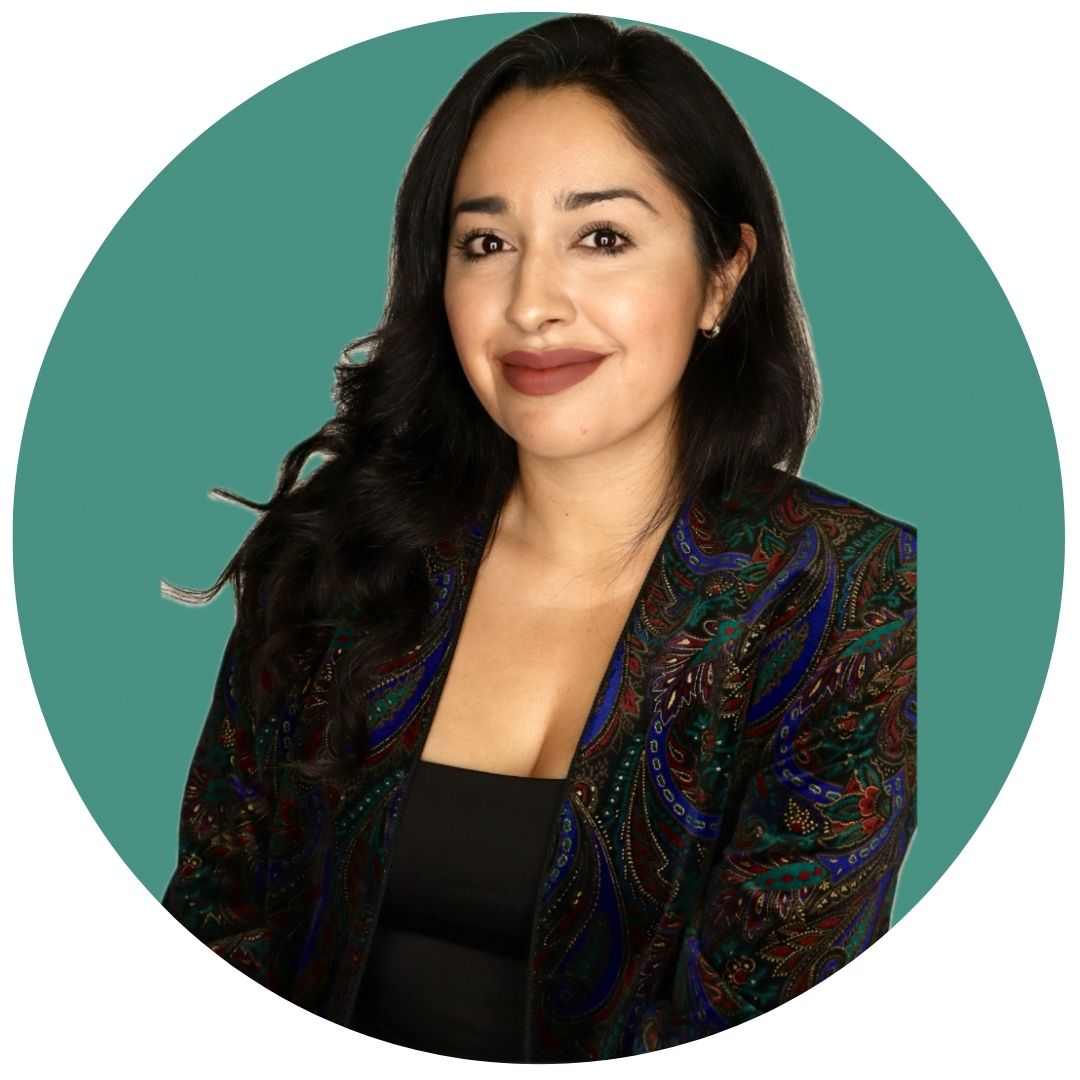
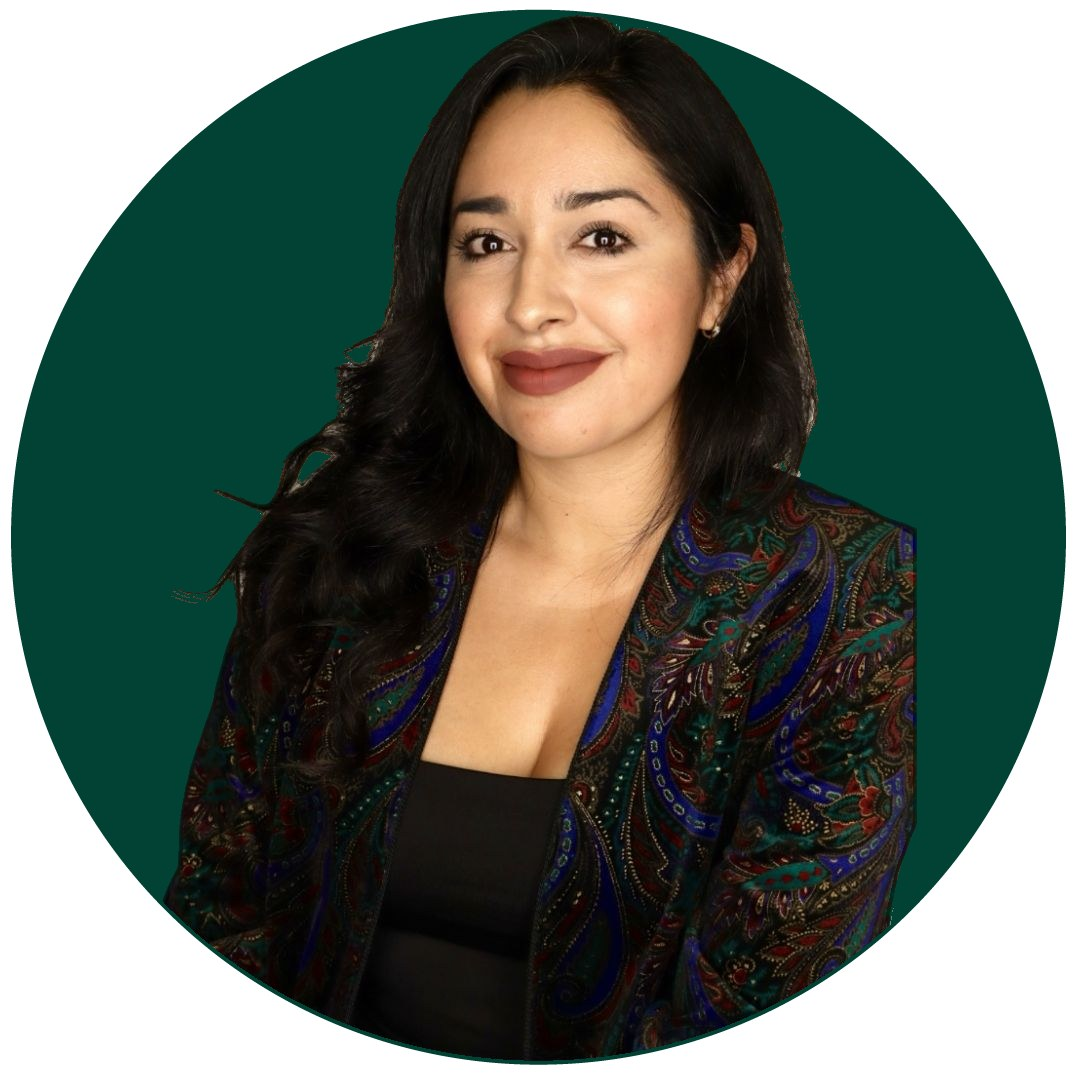
Give the hero portrait a transparent circle in the brand green
The white square around the portrait's backdrop circle showed on the page,
and the circle's teal (#489082) did not match the deep green the quote band,
the buttons and the nav all use (#014235). Both were baked into the pixels of
headshot.jpg rather than set in CSS, so this is mostly an image change.

headshot.webp is the portrait recoloured, with everything outside the circle
transparent. It replaces the JPEG on the page in both homepage layouts, which
share this asset, and comes in smaller than the file it replaces (95KB against
113KB). headshot.jpg stays as the og:image: social clients composite it
against backgrounds we do not control, so it keeps the white square.

The variant's portrait box was cropping the artwork. It carried
aspect-ratio 4/4.6 with object-fit:cover, which sliced the sides off a circle,
so it is square now and drops the border-radius and object-fit with it — the
shape belongs to the image. The offset sand rectangle behind the portrait goes
too: behind a circle with transparent corners it read as a stray shape poking
out from underneath rather than as a frame.

tools/recolor_headshot.py is how the asset was produced, kept so the colour
can be changed again. It also has to undo a flaw in the source, which was
itself cut out and laid onto the teal with a light matte: her loose hair
carried a pale fringe up to 40px wide and backdrop showed through two gaps in
it. Against the old teal that was nearly invisible; against a backdrop this
[…]

diff --git a/assets/css/fresh-take.css b/assets/css/fresh-take.css
@@ -109,16 +109,13 @@ html[data-home-design="fresh_take"] body{
 .ft .hero h1 em{font-style:italic;color:var(--ft-green)}
 .ft .hero .cta{display:flex;gap:26px;align-items:center;flex-wrap:wrap;margin-top:32px}
 .ft .pt{position:relative}
-.ft .pt .block{position:absolute;inset:26px -22px -22px 26px;background:var(--ft-sand);border-radius:var(--ft-r)}
-/* height:auto matters. The markup carries width="650" height="748" so the
-   browser can reserve the space, but that height is a definite value, and
-   aspect-ratio only applies when one dimension is auto — so without this the
-   attribute won and the portrait rendered 748px tall instead of the 543.8px
-   the ratio asks for, overwhelming the hero. */
-.ft .pt img{
-  position:relative;width:100%;height:auto;aspect-ratio:4/4.6;object-fit:cover;
-  object-position:center 18%;border-radius:var(--ft-r)
-}
+/* The portrait is a circle on transparent corners, baked into the image, so
+   this box has to stay square: the 4/4.6 crop this rule used to carry sliced
+   the sides off the circle. No border-radius or object-fit either — the shape
+   is the artwork's, not the box's. height:auto still matters, so that the
+   width/height attributes reserve the right space without pinning the
+   rendered height to 1080px. */
+.ft .pt img{position:relative;width:100%;height:auto;aspect-ratio:1}
 
 .ft .band{background:var(--ft-green);color:#fff;padding:74px 0}
 .ft .band .q{
@@ -264,7 +261,6 @@ html[data-home-design="fresh_take"] body{
   .ft .memo-grid,
   .ft .connect-grid{grid-template-columns:1fr;gap:38px}
   .ft .pt{order:-1;max-width:400px}
-  .ft .pt .block{inset:20px -14px -14px 20px}
   .ft .plogos{grid-template-columns:repeat(2,1fr)}
   .ft section.pad{padding-block:60px}
   .ft .hero{padding-block:48px 60px}
@@ -378,9 +374,10 @@ html[data-home-design="fresh_take"] .pcard h2:first-child{margin-top:26px}
    so each rule has to out-specify its site.css counterpart — which the
    html[data-home-design="fresh_take"] prefix does on its own.
 
-   The look follows the homepage: Fraunces for headings, cream ground, the
-   sand offset block behind the cover image that the hero portrait uses, and
-   green for anything interactive. */
+   The look follows the homepage: Fraunces for headings, cream ground, a sand
+   offset block behind the cover image, and green for anything interactive.
+   (The hero portrait used to carry that same offset block; it does not any
+   more, now that its backdrop is a circle.) */
 
 html[data-home-design="fresh_take"]{
   --ft-post-line:rgba(1,66,53,.14);

diff --git a/index.html b/index.html
@@ -18,7 +18,7 @@
 <link href="https://fonts.googleapis.com/css2?family=Mr+De+Haviland&family=Mulish:wght@200..800&family=Lato:wght@300;400&display=swap" rel="stylesheet">
 <link rel="stylesheet" href="assets/css/site.css?v=c31d387e">
 <link href="https://fonts.googleapis.com/css2?family=Fraunces:ital,opsz,wght@0,9..144,300..700;1,9..144,300..600&display=swap" rel="stylesheet">
-<link rel="stylesheet" href="assets/css/fresh-take.css?v=d0b85ae1">
+<link rel="stylesheet" href="assets/css/fresh-take.css?v=d4e873a1">
 <link rel="alternate" type="application/rss+xml" title="AQ Career Consulting — POV Blog" href="feed.xml">
 <noscript><style>html.exp-pending body{visibility:visible!important}</style></noscript>
 <script>
@@ -127,7 +127,7 @@
         </form>
         <a class="btn-solid" href="#services" data-cta="hero">Learn how I can support you</a>
       </div>
-      <div class="portrait"><img src="assets/img/headshot.jpg" alt="Alina Quintana" width="650" height="650"></div>
+      <div class="portrait"><img src="assets/img/headshot.webp" alt="Alina Quintana" width="1080" height="1080"></div>
     </div>
   </section>
 
@@ -318,9 +318,12 @@
           <a class="btn-text" href="#ft-connect" data-cta="primary">Book a conversation</a>
         </div>
       </div>
+      <!-- The portrait's backdrop circle is part of the image and its corners
+           are transparent, so the offset sand rectangle that used to sit
+           behind this photo is gone: against a circle it read as a stray
+           shape poking out rather than as a frame. -->
       <div class="pt">
-        <div class="block"></div>
-        <img src="assets/img/headshot.jpg" alt="Alina Quintana, National Certified Counselor and Certified Career Counselor" width="650" height="748">
+        <img src="assets/img/headshot.webp" alt="Alina Quintana, National Certified Counselor and Certified Career Counselor" width="1080" height="1080">
       </div>
     </div>
   </section>

diff --git a/templates/home-fresh-take.html b/templates/home-fresh-take.html
@@ -21,9 +21,12 @@
           <a class="btn-text" href="{{base}}#ft-connect" data-cta="primary">Book a conversation</a>
         </div>
       </div>
+      <!-- The portrait's backdrop circle is part of the image and its corners
+           are transparent, so the offset sand rectangle that used to sit
+           behind this photo is gone: against a circle it read as a stray
+           shape poking out rather than as a frame. -->
       <div class="pt">
-        <div class="block"></div>
-        <img src="{{base}}assets/img/headshot.jpg" alt="Alina Quintana, National Certified Counselor and Certified Career Counselor" width="650" height="748">
+        <img src="{{base}}assets/img/headshot.webp" alt="Alina Quintana, National Certified Counselor and Certified Career Counselor" width="1080" height="1080">
       </div>
     </div>
   </section>

diff --git a/post/10-tips-for-career-alignment-as-a-nbcc-fellow/index.html b/post/10-tips-for-career-alignment-as-a-nbcc-fellow/index.html
@@ -18,7 +18,7 @@
 <link href="https://fonts.googleapis.com/css2?family=Mr+De+Haviland&family=Mulish:wght@200..800&family=Lato:wght@300;400&display=swap" rel="stylesheet">
 <link rel="stylesheet" href="../../assets/css/site.css?v=c31d387e">
 <link href="https://fonts.googleapis.com/css2?family=Fraunces:ital,opsz,wght@0,9..144,300..700;1,9..144,300..600&display=swap" rel="stylesheet">
-<link rel="stylesheet" href="../../assets/css/fresh-take.css?v=d0b85ae1">
+<link rel="stylesheet" href="../../assets/css/fresh-take.css?v=d4e873a1">
 <link rel="alternate" type="application/rss+xml" title="AQ Career Consulting — POV Blog" href="../../feed.xml">
 <noscript><style>html.exp-pending body{visibility:visible!important}</style></noscript>
 <script>

diff --git a/post/a-million-miles-away-2023-a-cinematic-journey-of-inspiration-for-career-development/index.html b/post/a-million-miles-away-2023-a-cinematic-journey-of-inspiration-for-career-development/index.html
@@ -18,7 +18,7 @@
 <link href="https://fonts.googleapis.com/css2?family=Mr+De+Haviland&family=Mulish:wght@200..800&family=Lato:wght@300;400&display=swap" rel="stylesheet">
 <link rel="stylesheet" href="../../assets/css/site.css?v=c31d387e">
 <link href="https://fonts.googleapis.com/css2?family=Fraunces:ital,opsz,wght@0,9..144,300..700;1,9..144,300..600&display=swap" rel="stylesheet">
-<link rel="stylesheet" href="../../assets/css/fresh-take.css?v=d0b85ae1">
+<link rel="stylesheet" href="../../assets/css/fresh-take.css?v=d4e873a1">
 <link rel="alternate" type="application/rss+xml" title="AQ Career Consulting — POV Blog" href="../../feed.xml">
 <noscript><style>html.exp-pending body{visibility:visible!important}</style></noscript>
 <script>

diff --git a/post/chicano-frankenstein-a-riveting-sci-fi-novel-of-love-family-and-politics/index.html b/post/chicano-frankenstein-a-riveting-sci-fi-novel-of-love-family-and-politics/index.html
@@ -18,7 +18,7 @@
 <link href="https://fonts.googleapis.com/css2?family=Mr+De+Haviland&family=Mulish:wght@200..800&family=Lato:wght@300;400&display=swap" rel="stylesheet">
 <link rel="stylesheet" href="../../assets/css/site.css?v=c31d387e">
 <link href="https://fonts.googleapis.com/css2?family=Fraunces:ital,opsz,wght@0,9..144,300..700;1,9..144,300..600&display=swap" rel="stylesheet">
-<link rel="stylesheet" href="../../assets/css/fresh-take.css?v=d0b85ae1">
+<link rel="stylesheet" href="../../assets/css/fresh-take.css?v=d4e873a1">
 <link rel="alternate" type="application/rss+xml" title="AQ Career Consulting — POV Blog" href="../../feed.xml">
 <noscript><style>html.exp-pending body{visibility:visible!important}</style></noscript>
 <script>

diff --git a/post/mental-health-in-the-digital-age-betterhelp-s-ethical-breach-and-what-it-means-for-us/index.html b/post/mental-health-in-the-digital-age-betterhelp-s-ethical-breach-and-what-it-means-for-us/index.html
@@ -18,7 +18,7 @@
 <link href="https://fonts.googleapis.com/css2?family=Mr+De+Haviland&family=Mulish:wght@200..800&family=Lato:wght@300;400&display=swap" rel="stylesheet">
 <link rel="stylesheet" href="../../assets/css/site.css?v=c31d387e">
 <link href="https://fonts.googleapis.com/css2?family=Fraunces:ital,opsz,wght@0,9..144,300..700;1,9..144,300..600&display=swap" rel="stylesheet">
-<link rel="stylesheet" href="../../assets/css/fresh-take.css?v=d0b85ae1">
+<link rel="stylesheet" href="../../assets/css/fresh-take.css?v=d4e873a1">
 <link rel="alternate" type="application/rss+xml" title="AQ Career Consulting — POV Blog" href="../../feed.xml">
 <noscript><style>html.exp-pending body{visibility:visible!important}</style></noscript>
 <script>

diff --git a/post/the-art-of-calculated-risk-guiding-clients-towards-confidence-and-success/index.html b/post/the-art-of-calculated-risk-guiding-clients-towards-confidence-and-success/index.html
@@ -18,7 +18,7 @@
 <link href="https://fonts.googleapis.com/css2?family=Mr+De+Haviland&family=Mulish:wght@200..800&family=Lato:wght@300;400&display=swap" rel="stylesheet">
 <link rel="stylesheet" href="../../assets/css/site.css?v=c31d387e">
 <link href="https://fonts.googleapis.com/css2?family=Fraunces:ital,opsz,wght@0,9..144,300..700;1,9..144,300..600&display=swap" rel="stylesheet">
-<link rel="stylesheet" href="../../assets/css/fresh-take.css?v=d0b85ae1">
+<link rel="stylesheet" href="../../assets/css/fresh-take.css?v=d4e873a1">
 <link rel="alternate" type="application/rss+xml" title="AQ Career Consulting — POV Blog" href="../../feed.xml">
 <noscript><style>html.exp-pending body{visibility:visible!important}</style></noscript>
 <script>

diff --git a/post/the-career-questions-we-were-afraid-to-ask-out-loud-so-we-asked-google/index.html b/post/the-career-questions-we-were-afraid-to-ask-out-loud-so-we-asked-google/index.html
@@ -18,7 +18,7 @@
 <link href="https://fonts.googleapis.com/css2?family=Mr+De+Haviland&family=Mulish:wght@200..800&family=Lato:wght@300;400&display=swap" rel="stylesheet">
 <link rel="stylesheet" href="../../assets/css/site.css?v=c31d387e">
 <link href="https://fonts.googleapis.com/css2?family=Fraunces:ital,opsz,wght@0,9..144,300..700;1,9..144,300..600&display=swap" rel="stylesheet">
-<link rel="stylesheet" href="../../assets/css/fresh-take.css?v=d0b85ae1">
+<link rel="stylesheet" href="../../assets/css/fresh-take.css?v=d4e873a1">
 <link rel="alternate" type="application/rss+xml" title="AQ Career Consulting — POV Blog" href="../../feed.xml">
 <noscript><style>html.exp-pending body{visibility:visible!important}</style></noscript>
 <script>

diff --git a/post/the-challenge-of-raising-a-girl-with-dreams-bigger-than-mine/index.html b/post/the-challenge-of-raising-a-girl-with-dreams-bigger-than-mine/index.html
@@ -18,7 +18,7 @@
 <link href="https://fonts.googleapis.com/css2?family=Mr+De+Haviland&family=Mulish:wght@200..800&family=Lato:wght@300;400&display=swap" rel="stylesheet">
 <link rel="stylesheet" href="../../assets/css/site.css?v=c31d387e">
 <link href="https://fonts.googleapis.com/css2?family=Fraunces:ital,opsz,wght@0,9..144,300..700;1,9..144,300..600&display=swap" rel="stylesheet">
-<link rel="stylesheet" href="../../assets/css/fresh-take.css?v=d0b85ae1">
+<link rel="stylesheet" href="../../assets/css/fresh-take.css?v=d4e873a1">
 <link rel="alternate" type="application/rss+xml" title="AQ Career Consulting — POV Blog" href="../../feed.xml">
 <noscript><style>html.exp-pending body{visibility:visible!important}</style></noscript>
 <script>

diff --git a/post/the-changing-landscape-of-work-a-career-counselor-explores-the-careers-are-dying-trend-on-tiktok/index.html b/post/the-changing-landscape-of-work-a-career-counselor-explores-the-careers-are-dying-trend-on-tiktok/index.html
@@ -18,7 +18,7 @@
 <link href="https://fonts.googleapis.com/css2?family=Mr+De+Haviland&family=Mulish:wght@200..800&family=Lato:wght@300;400&display=swap" rel="stylesheet">
 <link rel="stylesheet" href="../../assets/css/site.css?v=c31d387e">
 <link href="https://fonts.googleapis.com/css2?family=Fraunces:ital,opsz,wght@0,9..144,300..700;1,9..144,300..600&display=swap" rel="stylesheet">
-<link rel="stylesheet" href="../../assets/css/fresh-take.css?v=d0b85ae1">
+<link rel="stylesheet" href="../../assets/css/fresh-take.css?v=d4e873a1">
 <link rel="alternate" type="application/rss+xml" title="AQ Career Consulting — POV Blog" href="../../feed.xml">
 <noscript><style>html.exp-pending body{visibility:visible!important}</style></noscript>
 <script>

diff --git a/post/three-years-as-a-certified-counselor-my-thoughts-and-what-s-next/index.html b/post/three-years-as-a-certified-counselor-my-thoughts-and-what-s-next/index.html
@@ -18,7 +18,7 @@
 <link href="https://fonts.googleapis.com/css2?family=Mr+De+Haviland&family=Mulish:wght@200..800&family=Lato:wght@300;400&display=swap" rel="stylesheet">
 <link rel="stylesheet" href="../../assets/css/site.css?v=c31d387e">
 <link href="https://fonts.googleapis.com/css2?family=Fraunces:ital,opsz,wght@0,9..144,300..700;1,9..144,300..600&display=swap" rel="stylesheet">
-<link rel="stylesheet" href="../../assets/css/fresh-take.css?v=d0b85ae1">
+<link rel="stylesheet" href="../../assets/css/fresh-take.css?v=d4e873a1">
 <link rel="alternate" type="application/rss+xml" title="AQ Career Consulting — POV Blog" href="../../feed.xml">
 <noscript><style>html.exp-pending body{visibility:visible!important}</style></noscript>
 <script>
